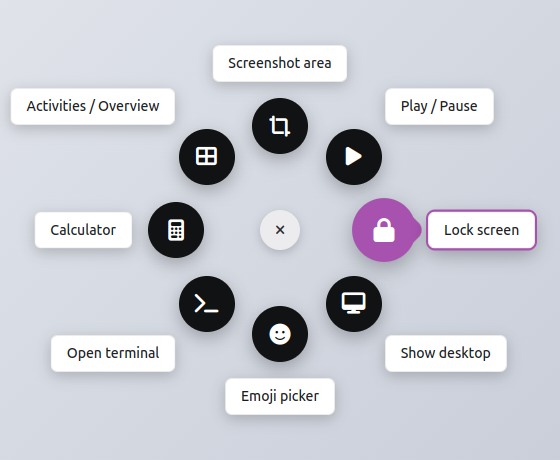
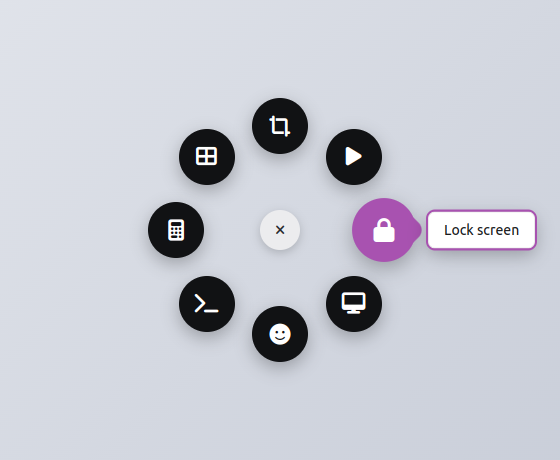
Ring shows a label only for the action it is on
The names of all eight actions were always on screen. Only the chosen one says
its name now; the rest are icons.

diff --git a/ui/renderer/ring.html b/ui/renderer/ring.html
@@ -21,8 +21,9 @@
     .bub.empty { background: transparent; color: var(--card); border: 2px dashed rgba(255,255,255,.75); box-shadow: 0 0 0 1px rgba(0,0,0,.25), inset 0 0 0 1px rgba(0,0,0,.25); box-sizing: border-box; font-size: 15px; opacity: .7; text-shadow: 0 0 3px rgba(0,0,0,.6); }
     .bub.empty.on { opacity: 1; transform: scale(1.06); background: transparent; }
     .bub.empty::after { display: none; }
-    .lab { position: absolute; padding: 9px 15px; border-radius: 7px; background: var(--card); color: var(--card-fg); border: 1px solid var(--card-brd); box-shadow: 0 4px 14px rgba(0,0,0,.2); white-space: nowrap; max-width: 170px; overflow: hidden; text-overflow: ellipsis; transition: box-shadow .09s, transform .09s; }
-    .lab.on { box-shadow: 0 0 0 2px var(--acc), 0 6px 18px rgba(0,0,0,.28); }
+    .lab { position: absolute; padding: 9px 15px; border-radius: 7px; background: var(--card); color: var(--card-fg); border: 1px solid var(--card-brd); box-shadow: 0 4px 14px rgba(0,0,0,.2); white-space: nowrap; max-width: 170px; overflow: hidden; text-overflow: ellipsis; opacity: 0; transition: opacity .1s; pointer-events: none; }
+    /* only the chosen action says its name */
+    .lab.on { opacity: 1; box-shadow: 0 0 0 2px var(--acc), 0 6px 18px rgba(0,0,0,.28); }
     #hub { position: absolute; left: 50%; top: 50%; width: 40px; height: 40px; margin: -20px 0 0 -20px; border-radius: 50%; background: var(--hub); color: var(--hub-fg); display: flex; align-items: center; justify-content: center; font-size: 13px; box-shadow: 0 3px 10px rgba(0,0,0,.2); transition: transform .09s; }
     #hub.on { transform: scale(1.12); }
   </style>
